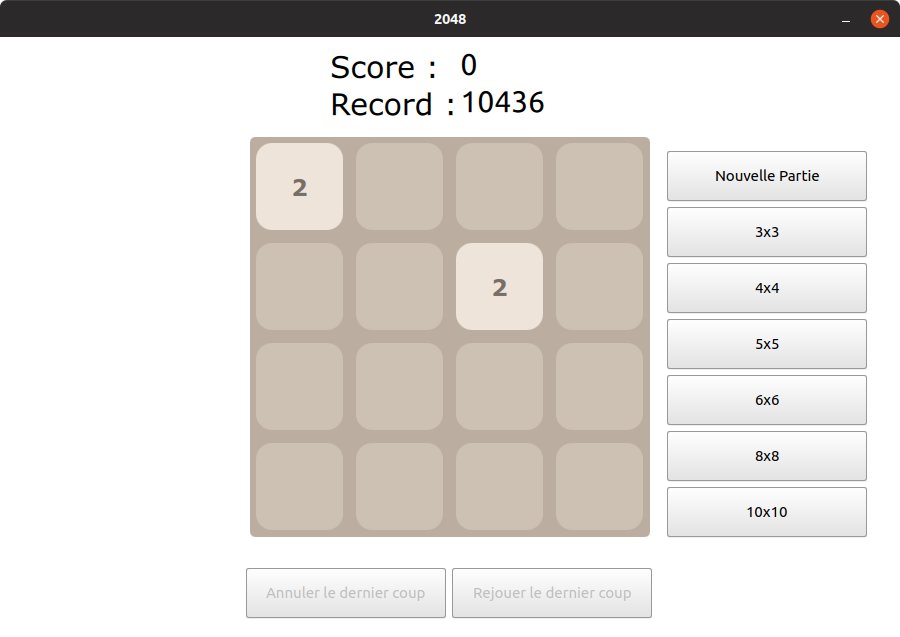
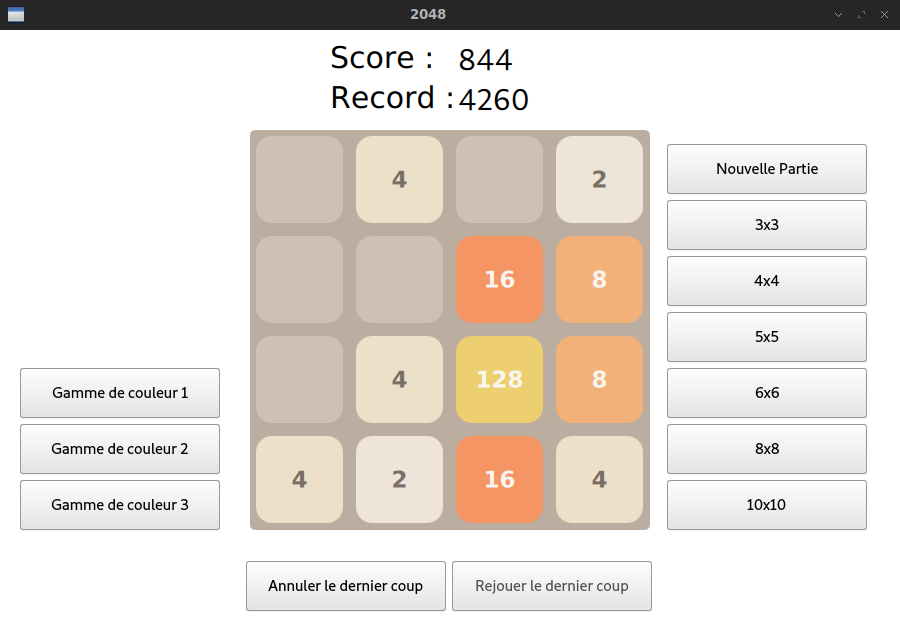
Mise à jour notice, taille de police des nombres

diff --git a/Tile.qml b/Tile.qml
@@ -122,7 +122,7 @@ Item {
         anchors.fill: parent
         color:
         {
-            if (jeu.theme == 1 || jeu.theme == 3){
+            if (jeu.theme == 1){
                 switch (value)
                 {
                 case 2:
@@ -141,32 +141,41 @@ Item {
                     return "#f9f6f2";
                 }
             }
-
-            if (jeu.theme == 2){
+            else if (jeu.theme == 2){
                 switch (value)
                 {
                 case 2:
-                    return "#f9f6f2";
                 case 4:
                     return "#f9f6f2";
                 case 8:
-                    return "#f9f6f2";
                 case 16:
-                    return "#776e65";
                 case 32:
-                    return "#776e65";
                 case 64:
-                    return "#776e65";
                 case 128:
-                    return "#776e65";
                 case 256:
-                    return "#776e65";
                 case 512:
-                    return "#776e65";
                 case 1024:
-                    return "#f9f6f2";
                 case 2048:
-                    return "#f9f6f2";
+                default:
+                    return "#776e65";
+                }
+            }
+            else if (jeu.theme == 3)
+            {
+                switch (value)
+                {
+                case 2:
+                case 4:
+                    return "#776e65";
+                case 8:
+                case 16:
+                case 32:
+                case 64:
+                case 128:
+                case 256:
+                case 512:
+                case 1024:
+                case 2048:
                 default:
                     return "#f9f6f2";
                 }

diff --git a/Grille.qml b/Grille.qml
@@ -32,8 +32,9 @@ Rectangle {
                     case 3:
                         return 21;
                     case 4:
-                    case 5:
                         return 17;
+                    case 5:
+                        return 15;
                     case 6:
                         return 12;
                     case 8:

diff --git a/README.md b/README.md
@@ -23,6 +23,8 @@ en dessous de la grille, ou appuyez simultanément sur Ctrl et Y au clavier
 à droite pour rejouer avec une grille de même taille. Pour commencer une
 partie avec une grille de taille différente, appuyez sur le bouton de la
 taille souhaitée, en dessous du bouton _Nouvelle Partie_
+* Pour changer la couleur des cases de la grille, sélectionnez une gamme de
+couleur en appuyant sur un des boutons à gauche de la grille
 * La combinaison de touches Haut Haut Bas Bas Gauche Droite Gauche Droite B A
 déclenche quelque chose...
 
@@ -30,7 +32,7 @@ Le jeu affiche le score de la partie en cours, ainsi que le record personnel
 au dessus de la grille.
 
 Une fois que la partie est finie, un message s'affiche au dessus de la grille
-pour indiquer si la partie est gagnée ou partie. Si la partie est gagnée
+pour indiquer si la partie est gagnée ou perdue. Si la partie est gagnée
 (présence d'un 2048 dans la grille), on peut toutefois continuer de jouer.
 Si la partie est finie, on peut en relancer une nouvelle en suivant les
 instructions _Nouvelle Partie_ indiquée ci-dessus.
